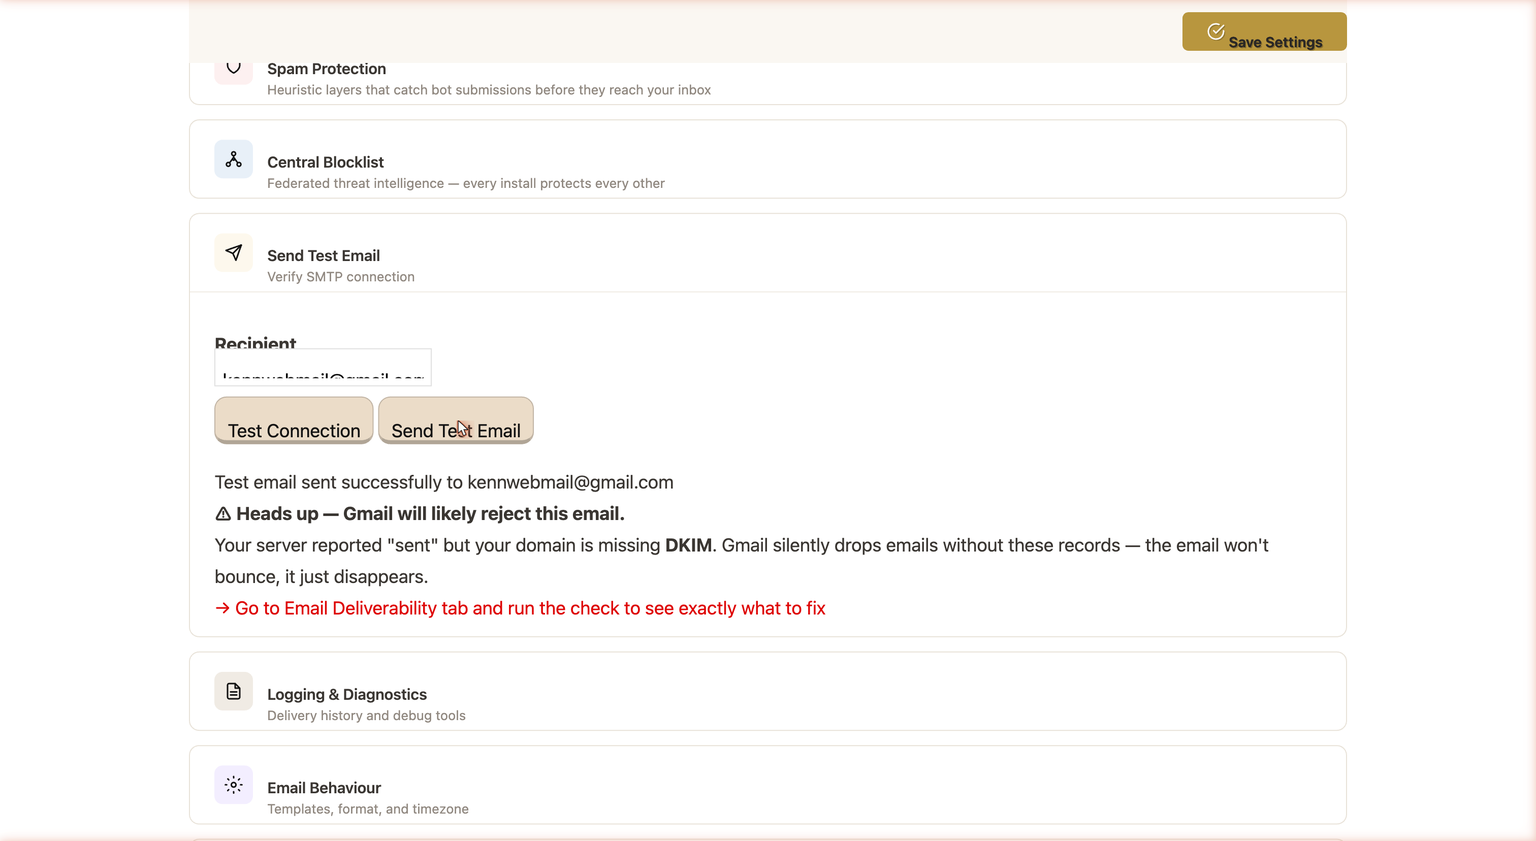
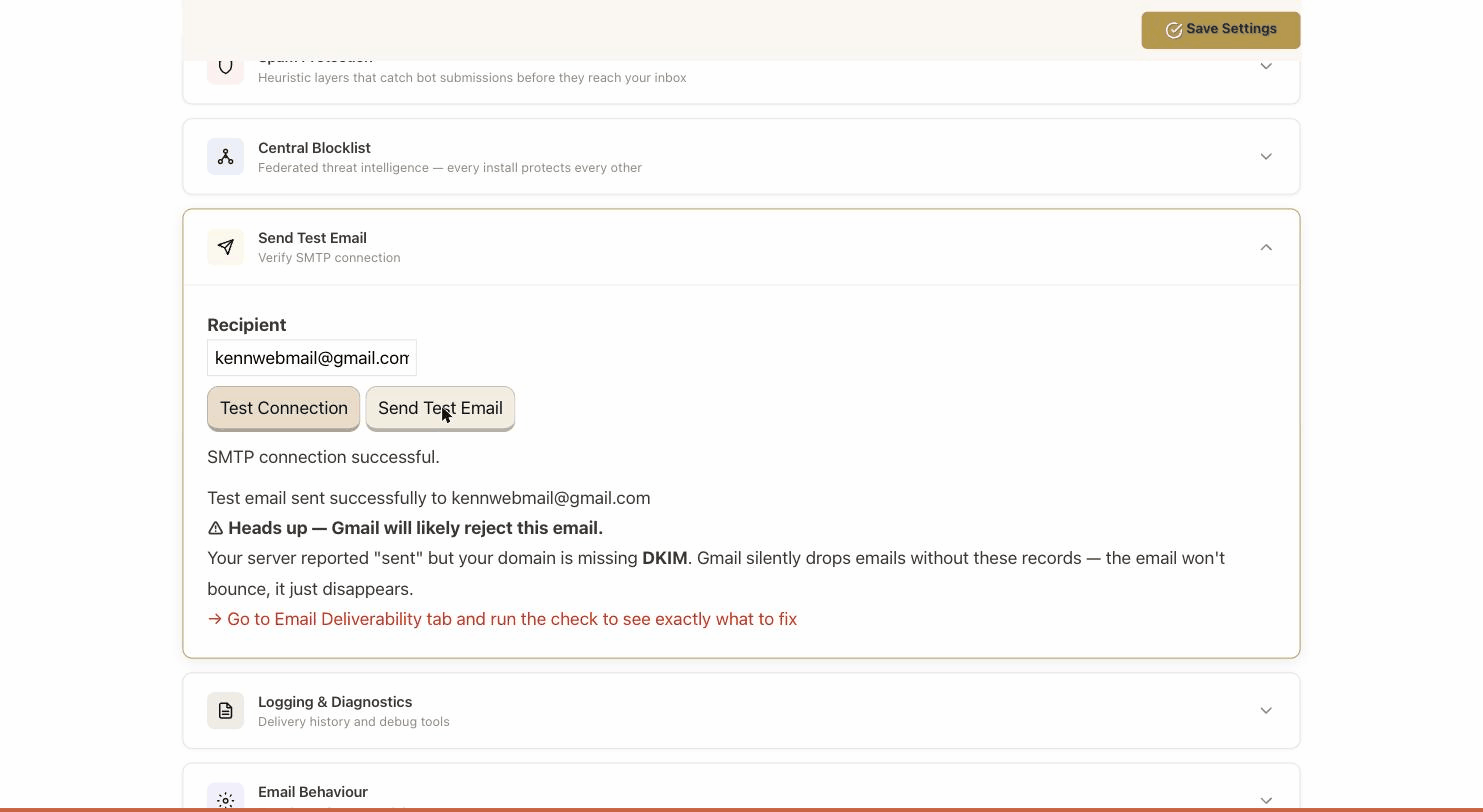
guides: real GoDaddy cPanel screenshots (replace A2 set); add cPanel figures to Bluehost + HostGator with provenance notes

diff --git a/public/guides/pagemotor-godaddy/index.html b/public/guides/pagemotor-godaddy/index.html
@@ -69,7 +69,7 @@
   @media (max-width:520px){body{font-size:17px} h1{font-size:28px} .wrap{padding:22px 15px 64px} .step{padding:4px 17px 18px} .step h2{font-size:20px}}
   /* Screenshots */
   figure.screenshot{margin:20px 0;border:1px solid var(--line);border-radius:var(--radius);overflow:hidden;box-shadow:0 1px 3px rgba(35,33,28,.06),0 5px 16px rgba(35,33,28,.05);background:var(--card)}
-  figure.screenshot img{display:block;width:100%;height:auto}
+  figure.screenshot img,figure.screenshot video{display:block;width:100%;height:auto}
   figure.screenshot figcaption{font-size:13.5px;color:var(--soft);padding:10px 14px;border-top:1px solid var(--line);background:var(--card)}
 </style>
 <link rel="preconnect" href="https://fonts.bunny.net" crossorigin>
@@ -259,13 +259,11 @@ define(<span class="tok-s">'PM_HTML_CHARSET'</span>, <span class="tok-s">''</spa
   </ol>
 
   <figure class="screenshot">
-    <img src="screenshots/05-email-localhost.png" alt="EP Email SMTP Connection set to Custom SMTP, host localhost, port 25, encryption None, no authentication" loading="lazy">
-    <figcaption>The working GoDaddy setup in EP Email: Custom SMTP, host <code>localhost</code>, port <code>25</code>, encryption None, no authentication.</figcaption>
-  </figure>
-
-  <figure class="screenshot">
-    <img src="screenshots/06-email-test-sent.png" alt="EP Email test result: test email sent successfully, with a heads-up that Gmail will reject it because the domain is missing DKIM" loading="lazy">
-    <figcaption>Test Connection passes and the test email sends. Note EP Email's own heads-up: the message is &ldquo;sent&rdquo;, but without DKIM, Gmail will silently drop it. That is the next thing to fix.</figcaption>
+    <video autoplay muted loop playsinline preload="metadata" poster="screenshots/06-email-test-sent.png" aria-label="EP Email on GoDaddy: setting host to localhost, Test Connection passing, and the test email sending successfully with a DKIM heads-up">
+      <source src="screenshots/godaddy-email-clip.mp4" type="video/mp4">
+      <img src="screenshots/06-email-test-sent.png" alt="EP Email test result on GoDaddy: SMTP connection successful and test email sent, with a heads-up that Gmail will reject it because the domain is missing DKIM">
+    </video>
+    <figcaption>The real thing on GoDaddy with host <code>localhost</code>: Test Connection passes and the email sends. Watch EP Email's own heads-up appear: the message is &ldquo;sent&rdquo;, but without DKIM, Gmail will silently drop it. That is the next thing to fix.</figcaption>
   </figure>
 
   <div class="note"><strong>"Sent" is not the same as "delivered".</strong> Your GoDaddy box will happily report the mail as sent, but Gmail and Outlook quietly bin messages from a domain with no <strong>SPF</strong> and <strong>DKIM</strong> records. The mail does not bounce; it just disappears. Add those two DNS records for your domain and real inboxes will accept it. The DNS half of the <a href="https://documentation.elmspark.com/guides/mailgun-email/">Mailgun guide</a> shows exactly what they look like.</div>